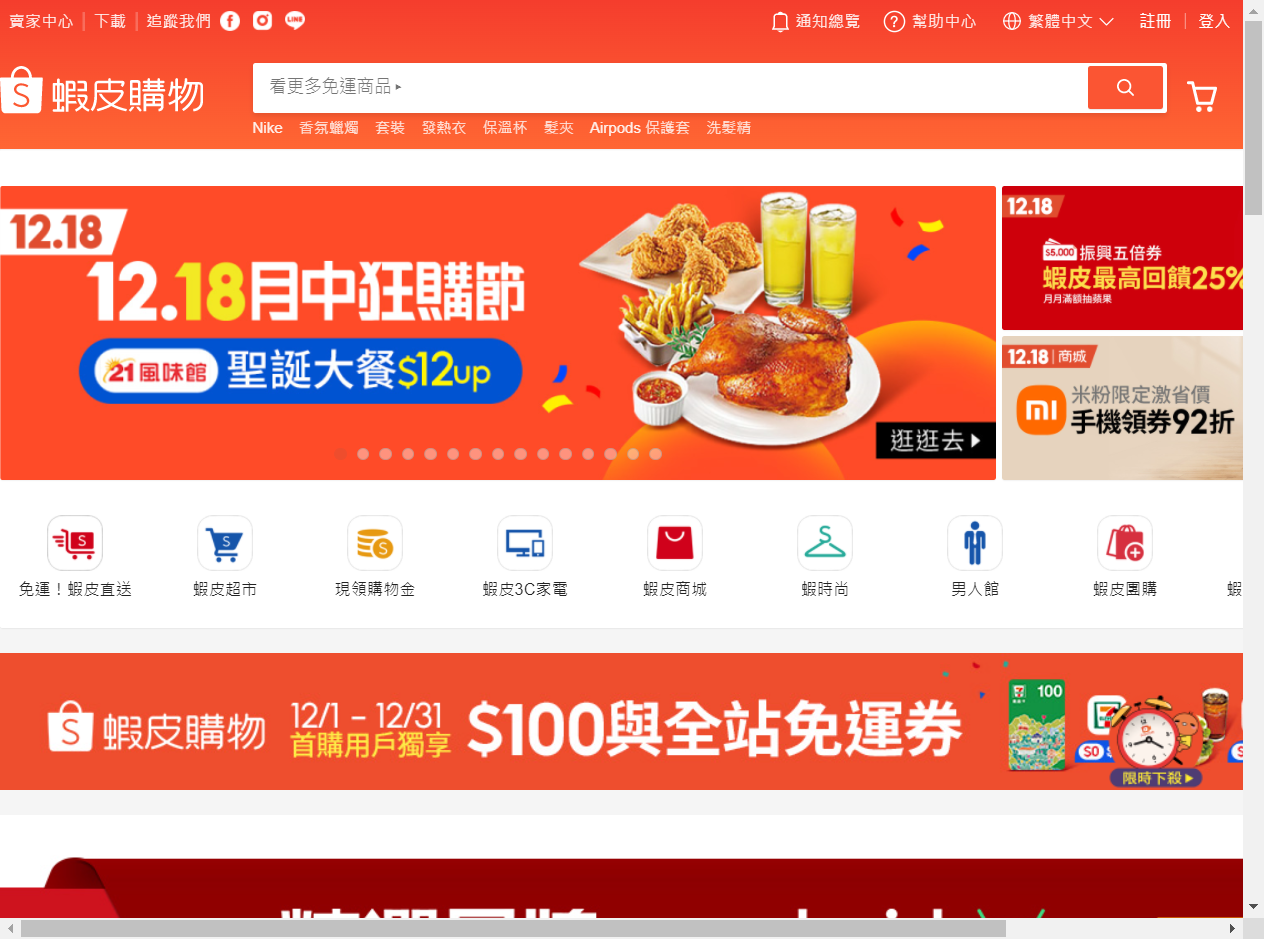
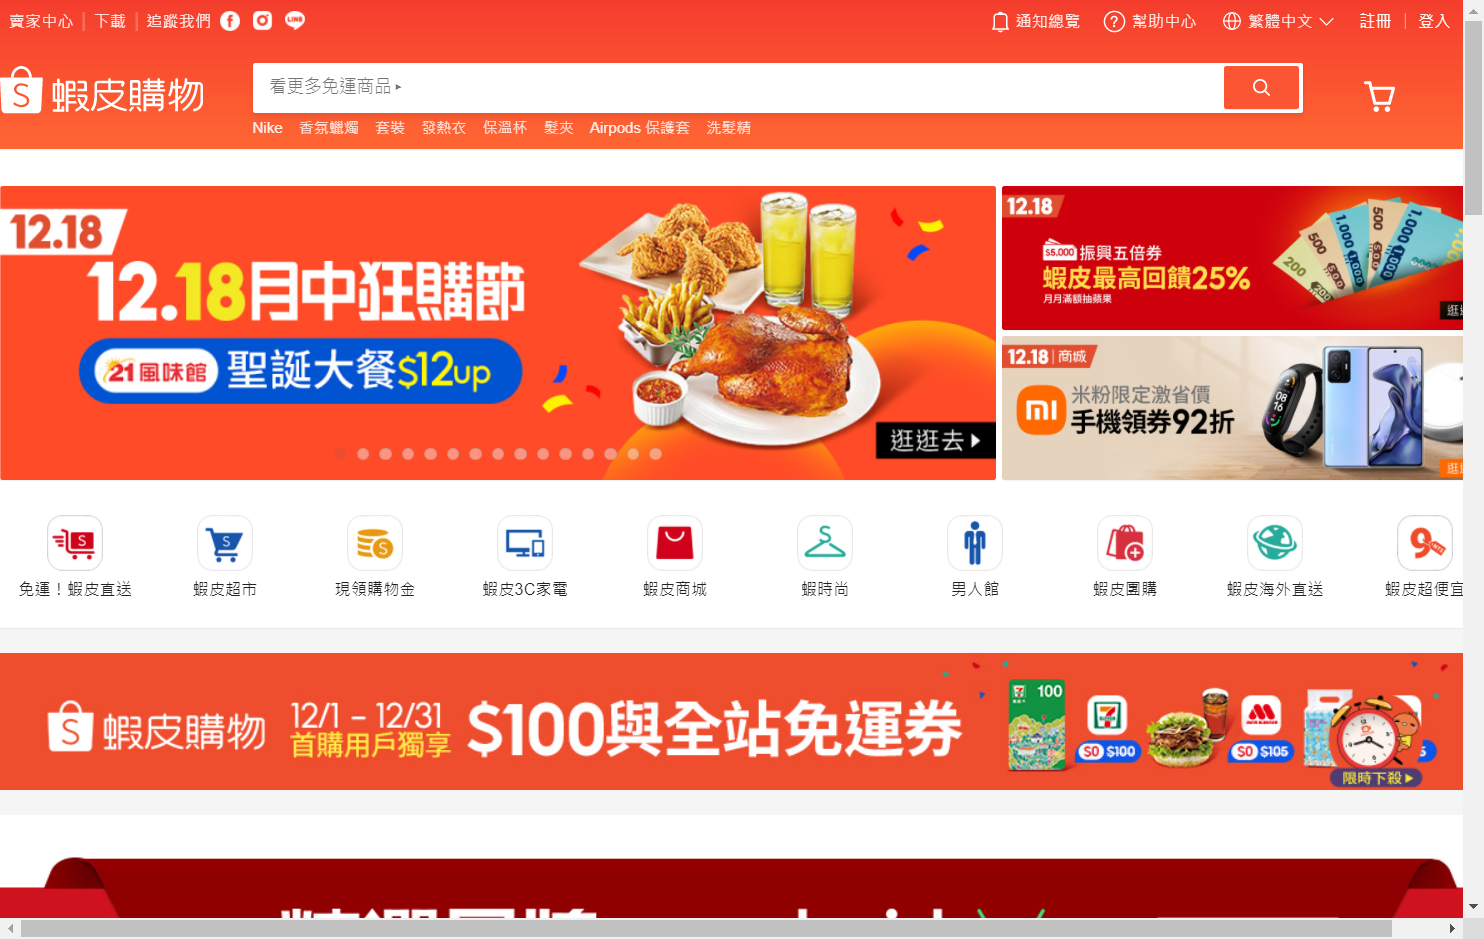
ok

diff --git a/shopee.py b/shopee.py
@@ -21,7 +21,7 @@ def shopee(data):
     domain = "https://shopee.tw/"
 
     driver = webdriver.Chrome()
-    driver.set_window_size(1024, 960)
+    driver.set_window_size(1200, 960)
 
     driver.get(domain)
     time.sleep(5)
